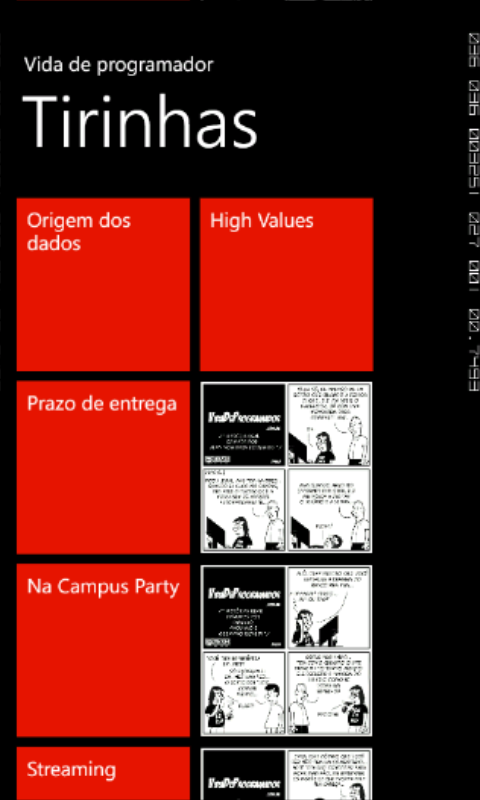
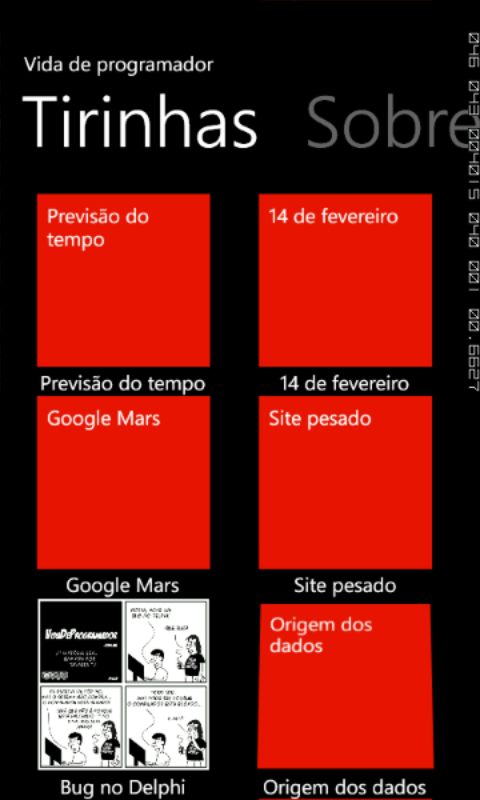
Resolvido probemas com tela Sobre Resolvido problema ao fechar applicacao quando nao ha acesso a internet Implementado botao para recarregar tirinhas

diff --git a/VidaDeProgramador/MainPage.xaml b/VidaDeProgramador/MainPage.xaml
@@ -1,11 +1,11 @@
-<phone:PhoneApplicationPage xmlns="http://schemas.microsoft.com/winfx/2006/xaml/presentation" xmlns:x="http://schemas.microsoft.com/winfx/2006/xaml" xmlns:phone="clr-namespace:Microsoft.Phone.Controls;assembly=Microsoft.Phone" xmlns:shell="clr-namespace:Microsoft.Phone.Shell;assembly=Microsoft.Phone" xmlns:controls="clr-namespace:Microsoft.Phone.Controls;assembly=Microsoft.Phone.Controls" xmlns:d="http://schemas.microsoft.com/expression/blend/2008" xmlns:mc="http://schemas.openxmlformats.org/markup-compatibility/2006" xmlns:toolkit="clr-namespace:Microsoft.Phone.Controls;assembly=Microsoft.Phone.Controls.Toolkit" xmlns:i="clr-namespace:System.Windows.Interactivity;assembly=System.Windows.Interactivity" xmlns:Command="clr-namespace:GalaSoft.MvvmLight.Command;assembly=GalaSoft.MvvmLight.Extras.WP71" xmlns:track="clr-namespace:VidaDeProgramador.Behaviors" xmlns:Controls="clr-namespace:VidaDeProgramador.Controls" x:Class="VidaDeProgramador.MainPage" mc:Ignorable="d" d:DesignWidth="480" d:DesignHeight="768" d:DataContext="{d:DesignData SampleData/MainViewModelSampleData.xaml}" FontFamily="{StaticResource PhoneFontFamilyNormal}" FontSize="{StaticResource PhoneFontSizeNormal}" Foreground="{StaticResource PhoneForegroundBrush}" SupportedOrientations="Portrait" Orientation="Portrait" shell:SystemTray.IsVisible="True" DataContext="{Binding Main, Source={StaticResource Locator}}">
+<phone:PhoneApplicationPage xmlns="http://schemas.microsoft.com/winfx/2006/xaml/presentation" xmlns:x="http://schemas.microsoft.com/winfx/2006/xaml" xmlns:phone="clr-namespace:Microsoft.Phone.Controls;assembly=Microsoft.Phone" xmlns:shell="clr-namespace:Microsoft.Phone.Shell;assembly=Microsoft.Phone" xmlns:controls="clr-namespace:Microsoft.Phone.Controls;assembly=Microsoft.Phone.Controls" xmlns:d="http://schemas.microsoft.com/expression/blend/2008" xmlns:mc="http://schemas.openxmlformats.org/markup-compatibility/2006" xmlns:toolkit="clr-namespace:Microsoft.Phone.Controls;assembly=Microsoft.Phone.Controls.Toolkit" xmlns:i="clr-namespace:System.Windows.Interactivity;assembly=System.Windows.Interactivity" xmlns:Command="clr-namespace:GalaSoft.MvvmLight.Command;assembly=GalaSoft.MvvmLight.Extras.WP71" xmlns:track="clr-namespace:VidaDeProgramador.Behaviors" xmlns:Controls="clr-namespace:VidaDeProgramador.Controls" x:Class="VidaDeProgramador.MainPage" mc:Ignorable="d" d:DesignWidth="480" d:DesignHeight="696" d:DataContext="{d:DesignData SampleData/MainViewModelSampleData.xaml}" FontFamily="{StaticResource PhoneFontFamilyNormal}" FontSize="{StaticResource PhoneFontSizeNormal}" Foreground="{StaticResource PhoneForegroundBrush}" SupportedOrientations="Portrait" Orientation="Portrait" shell:SystemTray.IsVisible="True" DataContext="{Binding Main, Source={StaticResource Locator}}">
     <Grid x:Name="LayoutRoot" Background="Transparent">
         <controls:Pivot Title="Vida de programador" Name="MainPivot">
             <i:Interaction.Behaviors>
                 <track:TrackablePivotBehavior SelectedIndex="{Binding SelectedIndex, Mode=TwoWay}" />
             </i:Interaction.Behaviors>
             <controls:PivotItem Header="Tirinhas">
-                <Controls:AdvancedListBox x:Name="HubTirinhas" ItemsSource="{Binding Items}">
+                <Controls:AdvancedListBox x:Name="HubTirinhas" ItemsSource="{Binding Tirinhas}">
                     <i:Interaction.Triggers>
                         <i:EventTrigger EventName="SelectionChanged">
                             <Command:EventToCommand Command="{Binding TirinhaSelected}" CommandParameter="{Binding SelectedItem, ElementName=HubTirinhas}" />
@@ -22,7 +22,7 @@
                     <Controls:AdvancedListBox.ItemTemplate>
                         <DataTemplate>
                             <StackPanel>
-                                <toolkit:HubTile Message="{Binding Title}" Source="{Binding Image}" Margin="1" Width="240" />
+                                <toolkit:HubTile Message="{Binding Title}" Source="{Binding Image}" Margin="1" Width="220" Padding="0"/>
                                 <TextBlock Text="{Binding Title}" HorizontalAlignment="Center" MaxWidth="200" TextWrapping="Wrap"></TextBlock>
                             </StackPanel>
                         </DataTemplate>
@@ -56,7 +56,9 @@
                         </Image.Projection>
                     </Image>
                     <StackPanel>
-                        <TextBlock FontSize="21.333" HorizontalAlignment="Left" TextWrapping="Wrap" TextTrimming="WordEllipsis">Autor: Alberto Monteiro</TextBlock>
+                        <TextBlock FontSize="21.333" HorizontalAlignment="Left" TextWrapping="Wrap" TextTrimming="WordEllipsis">
+                            Autor: Alberto Monteiro
+                        </TextBlock>
                         <HyperlinkButton NavigateUri="http://albertomonteiro.net" TargetName="_blank" Content="Site"></HyperlinkButton>
                         <HyperlinkButton NavigateUri="http://twitter.com/AibertoMonteiro" TargetName="_blank" Content="Twitter"></HyperlinkButton>
                     </StackPanel>
@@ -64,5 +66,15 @@
             </controls:PivotItem>
         </controls:Pivot>
     </Grid>
-
+    <phone:PhoneApplicationPage.ApplicationBar>
+        <shell:ApplicationBar x:Name="AppBar">
+            <shell:ApplicationBar.Buttons>
+                <shell:ApplicationBarIconButton IconUri="/icons/appbar.refresh.rest.png" Click="LoadTirinhas" Text="Carregar"></shell:ApplicationBarIconButton>
+            </shell:ApplicationBar.Buttons>
+            <!--<shell:ApplicationBar.MenuItems>
+                <shell:ApplicationBarMenuItem x:Name="mnuItemX" Text="Menu Item X"></shell:ApplicationBarMenuItem>
+                <shell:ApplicationBarMenuItem x:Name="mnuItemY" Text="Menu Item Y"></shell:ApplicationBarMenuItem>
+            </shell:ApplicationBar.MenuItems>-->
+        </shell:ApplicationBar>
+    </phone:PhoneApplicationPage.ApplicationBar>
 </phone:PhoneApplicationPage>

diff --git a/VidaDeProgramador/MainPage.xaml.cs b/VidaDeProgramador/MainPage.xaml.cs
@@ -1,8 +1,10 @@
 using System;
 using System.ComponentModel;
+using System.Linq;
 using System.Windows.Controls;
 using System.Windows.Media;
 using Microsoft.Phone.Controls;
+using VidaDeProgramador.ViewModel;
 
 namespace VidaDeProgramador
 {
@@ -14,24 +16,34 @@ namespace VidaDeProgramador
         public MainPage()
         {
             InitializeComponent();
+            DataContext = null;
+            Loaded += (s, e) =>
+            {
+                var mainViewModel = (MainViewModel)(DataContext = new MainViewModel());
+                mainViewModel.Tirinhas.CollectionChanged += (sender, args) =>
+                {
+                    ApplicationBar.IsVisible = !mainViewModel.Tirinhas.Any();
+                };
+            };
         }
 
         private void OnPinchDelta(object sender, PinchGestureEventArgs e)
         {
-            var image = (Image) sender;
+            var image = (Image)sender;
             if (actualWidth == 0)
                 actualWidth = image.Width;
             if (actualHeight == 0)
                 actualHeight = image.Height;
 
-            var renderTransform = (CompositeTransform) image.RenderTransform;
+            var renderTransform = (CompositeTransform)image.RenderTransform;
             if (e.DistanceRatio > 1)
             {
-                var distanceRatio = (int) e.DistanceRatio;
+                var distanceRatio = (int)e.DistanceRatio;
                 double d = e.DistanceRatio - distanceRatio;
                 renderTransform.ScaleX = Math.Min(renderTransform.ScaleX + d, 2);
                 renderTransform.ScaleY = Math.Min(renderTransform.ScaleY + d, 2);
-            } else
+            }
+            else
             {
                 renderTransform.ScaleX = Math.Max(renderTransform.ScaleX - (1 - e.DistanceRatio), 1);
                 renderTransform.ScaleY = Math.Max(renderTransform.ScaleY - (1 - e.DistanceRatio), 1);
@@ -41,8 +53,8 @@ namespace VidaDeProgramador
                     image.Height = actualHeight;
                 }
             }
-            image.Width = image.ActualWidth*renderTransform.ScaleX;
-            image.Height = image.ActualHeight*renderTransform.ScaleY;
+            image.Width = image.ActualWidth * renderTransform.ScaleX;
+            image.Height = image.ActualHeight * renderTransform.ScaleY;
         }
 
         protected override void OnBackKeyPress(CancelEventArgs e)
@@ -53,6 +65,13 @@ namespace VidaDeProgramador
                 MainPivot.SelectedIndex = 0;
             }
             base.OnBackKeyPress(e);
+        }
+
+        private void LoadTirinhas(object sender, EventArgs e)
+        {
+            var mainViewModel = DataContext as MainViewModel;
+            if (mainViewModel != null && !mainViewModel.Tirinhas.Any())
+                mainViewModel.LoadData(primeiraPagina:true);
         }
     }
 }

diff --git a/VidaDeProgramador/ViewModel/MainViewModel.cs b/VidaDeProgramador/ViewModel/MainViewModel.cs
@@ -11,36 +11,36 @@ namespace VidaDeProgramador.ViewModel
     public class MainViewModel : ViewModelBase
     {
         private readonly PostsService postsService;
-        private ObservableCollection<Post> items;
+        private ObservableCollection<Tirinha> tirinhas;
         private RelayCommand maisTirinhas;
         private int page;
         private int position;
 
         private int selectedIndex;
-        private Post tirinha;
+        private Tirinha tirinha;
 
         public MainViewModel()
         {
+            Tirinhas = new ObservableCollection<Tirinha>();
             postsService = new PostsService();
-            Items = new ObservableCollection<Post>();
             if (IsInDesignMode)
-                Tirinha = new Post {Title = "Teste de tirinha grande"};
+                Tirinha = new Tirinha {Title = "Teste de tirinha grande"};
             else
             {
                 SynchronizationContext.Current.Post(state => LoadData(), null);
-                TirinhaSelected = new RelayCommand<Post>(post =>
+                TirinhaSelected = new RelayCommand<Tirinha>(post =>
                 {
                     Tirinha = post;
                     SelectedIndex = 1;
                     Position = 0;
                 });
-                MaisTirinhas = new RelayCommand(LoadData);
+                MaisTirinhas = new RelayCommand(() => LoadData());
             }
         }
 
-        public RelayCommand<Post> TirinhaSelected { get; set; }
+        public RelayCommand<Tirinha> TirinhaSelected { get; set; }
 
-        public Post Tirinha
+        public Tirinha Tirinha
         {
             get { return tirinha; }
             set
@@ -50,13 +50,13 @@ namespace VidaDeProgramador.ViewModel
             }
         }
 
-        public ObservableCollection<Post> Items
+        public ObservableCollection<Tirinha> Tirinhas
         {
-            get { return items; }
+            get { return tirinhas; }
             set
             {
-                items = value;
-                RaisePropertyChanged("Items");
+                tirinhas = value;
+                RaisePropertyChanged("Tirinhas");
             }
         }
 
@@ -90,13 +90,15 @@ namespace VidaDeProgramador.ViewModel
             }
         }
 
-        public async void LoadData()
+        public async void LoadData(bool primeiraPagina = false)
         {
             try
             {
+                if (primeiraPagina)
+                    page = 0;
                 var posts = await postsService.GetPosts(++page);
                 foreach (var post in posts)
-                    Items.Add(post);
+                    Tirinhas.Add(post);
             } catch (Exception e)
             {
                 MessageBox.Show(e.Message, "Vida de Programador", MessageBoxButton.OK);

diff --git a/VidaDeProgramador/WordpressApi/PostsService.cs b/VidaDeProgramador/WordpressApi/PostsService.cs
@@ -18,13 +18,13 @@ namespace VidaDeProgramador.WordpressApi
         const string Imagem = @"<img src=""(?<imagem>.+)"" a";
         const string Corpo = @"<div class=""transcription"">(?<corpo>(.|\n)+)</div>";
 
-        public async Task<IEnumerable<Post>> GetPosts(int page)
+        public async Task<IEnumerable<Tirinha>> GetPosts(int page)
         {
+            GlobalLoading.Instance.PushLoading();
             XmlReader reader = null;
             MemoryStream contentSteam = null;
             try
             {
-                GlobalLoading.Instance.PushLoading();
                 var webClient = new WebClient();
                 var xml = await webClient.DownloadStringTaskAsync(new Uri(string.Format(Url, page)));
                 contentSteam = new MemoryStream();
@@ -37,13 +37,12 @@ namespace VidaDeProgramador.WordpressApi
                 
                 var imagemRegex = new Regex(Imagem);
                 var corpoRegex = new Regex(Corpo);
-
-                GlobalLoading.Instance.PopLoading();
+                
                 return from syndicationItem in feed.Items
                        let html = syndicationItem.ElementExtensions.ReadElementExtensions<string>("encoded", "http://purl.org/rss/1.0/modules/content/")
                        let srcImagem = imagemRegex.Match(html[0]).Groups["imagem"].Value
                        let body = corpoRegex.Match(html[0]).Groups["corpo"].Value
-                       select new Post
+                       select new Tirinha
                        {
                            Title = syndicationItem.Title.Text,
                            Image = srcImagem,
@@ -57,6 +56,7 @@ namespace VidaDeProgramador.WordpressApi
             }
             finally
             {
+                GlobalLoading.Instance.PopLoading();
                 if (reader != null)
                 {
                     reader.Close();

diff --git a/VidaDeProgramador/Controls/GlobalLoading.cs b/VidaDeProgramador/Controls/GlobalLoading.cs
@@ -27,8 +27,8 @@ namespace VidaDeProgramador.Controls
             if (loadingStack.Count == 0)
             {
                 ++loadingCount;
-                NotifyValueChanged();
             }
+            NotifyValueChanged();
             loadingStack.Push(true);
         }
 
@@ -37,7 +37,7 @@ namespace VidaDeProgramador.Controls
             loadingStack.Pop();
             if (loadingStack.Count == 0)
             {
-                --loadingCount;
+                loadingCount = 0;
                 NotifyValueChanged();
             }
         }
@@ -53,8 +53,7 @@ namespace VidaDeProgramador.Controls
 
         private void OnRootFrameNavigated(object sender, NavigationEventArgs e)
         {
-            // Use in Mango to share a single progress indicator instance.
-            object ee = e.Content;
+            var ee = e.Content;
             var pp = ee as PhoneApplicationPage;
             if (pp != null)
                 pp.SetValue(SystemTray.ProgressIndicatorProperty, mangoIndicator);

diff --git a/VidaDeProgramador/ViewModel/ViewModelLocator.cs b/VidaDeProgramador/ViewModel/ViewModelLocator.cs
@@ -8,9 +8,9 @@ namespace VidaDeProgramador.ViewModel
 
         public ViewModelLocator()
         {
-            _main = new MainViewModel();
             if (ViewModelBase.IsInDesignModeStatic)
             {
+                _main = new MainViewModel();
                 // Create design time services and viewmodels
             }
             else

diff --git a/VidaDeProgramador/WordpressApi/Tirinha.cs b/VidaDeProgramador/WordpressApi/Tirinha.cs
@@ -1,6 +1,6 @@
 namespace VidaDeProgramador.WordpressApi
 {
-    public class Post
+    public class Tirinha
     {
         public string Title { get; set; }
         public string Image { get; set; }
